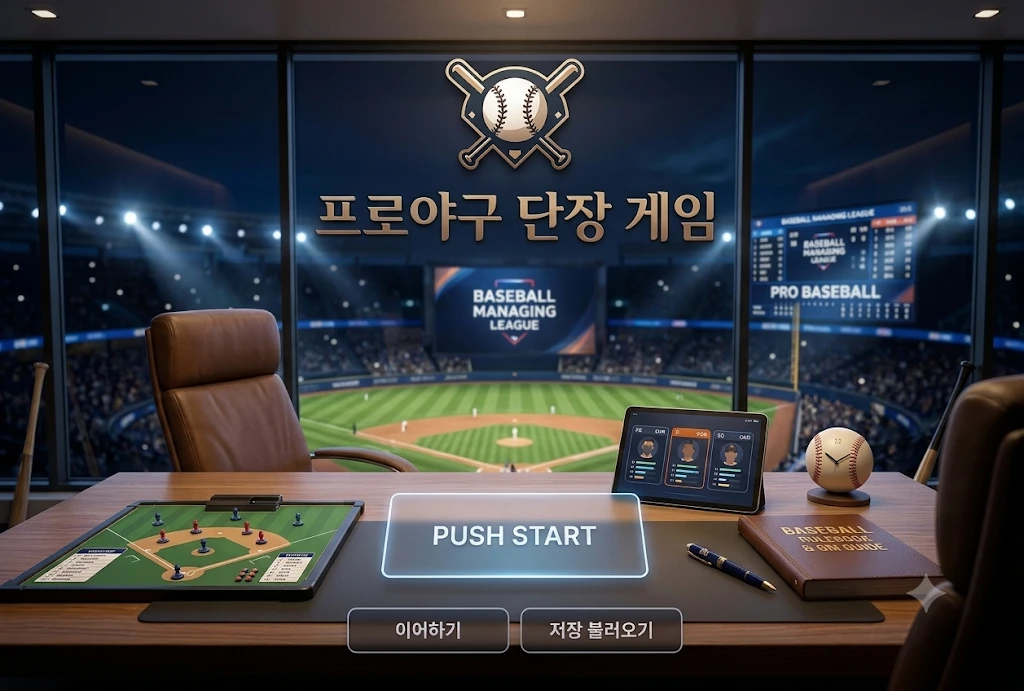
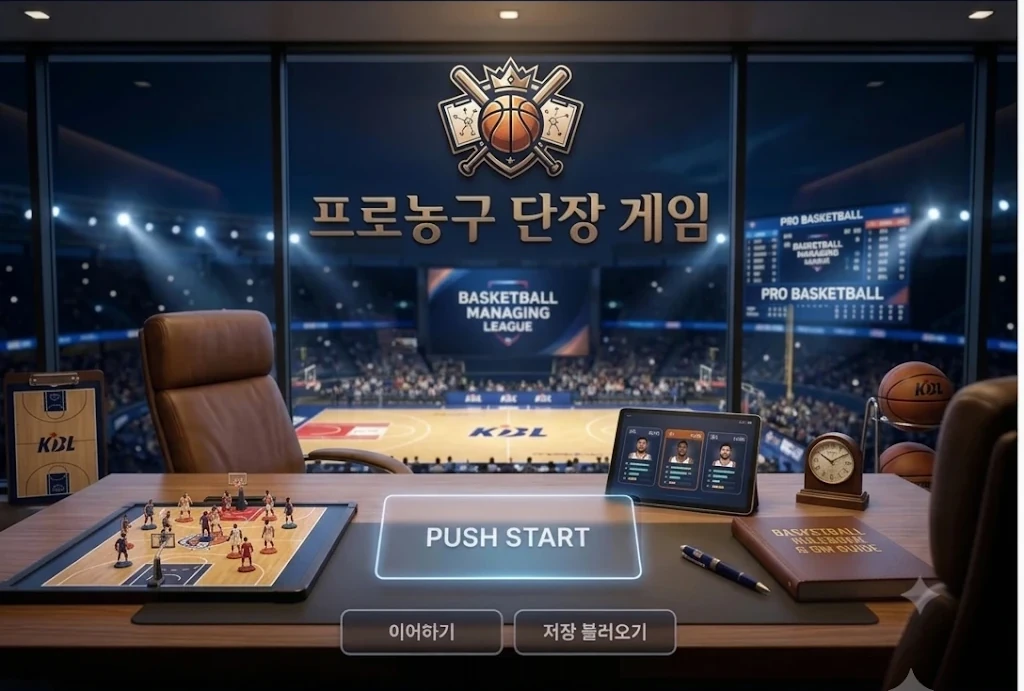
타이틀 화면: 농구 버전 그림으로 교체(위아래 검은 띠와 박힌 글자 제거), 버튼 자리 좌표 갱신
Claude-Session: https://claude.ai/code/session_01GqwKuwsJ5VsQjc2XADjCyR

diff --git a/web/views/title.js b/web/views/title.js
@@ -6,8 +6,9 @@ import { latestSlot } from '../lib/save.js';
 const ART = new URL('../assets/title-bg.webp', import.meta.url).href;
 const ART_FALLBACK = new URL('../assets/title.svg', import.meta.url).href;
 const SIZE = { w: 1024, h: 691 };
-// 그림 속 버튼 위치(왼쪽·위·너비·높이, 그림 크기에 대한 %)
-const HOT = { push: [37.4, 71.3, 25.9, 12.3], cont: [33.9, 88.0, 15.8, 6.4], save: [50.8, 88.0, 15.8, 6.4] };
+// 그림 속 버튼 위치(왼쪽·위·너비·높이, 1024×691 그림 안의 px)
+const px = (x, y, w, hgt) => [(x / SIZE.w) * 100, (y / SIZE.h) * 100, (w / SIZE.w) * 100, (hgt / SIZE.h) * 100];
+const HOT = { push: px(376, 495, 265, 84), cont: px(341, 610, 162, 45), save: px(514, 610, 163, 45) };
 const place = ([l, t, w, hgt]) => ({ left: `${l}%`, top: `${t}%`, width: `${w}%`, height: `${hgt}%` });
 
 export function render(ctx) {
